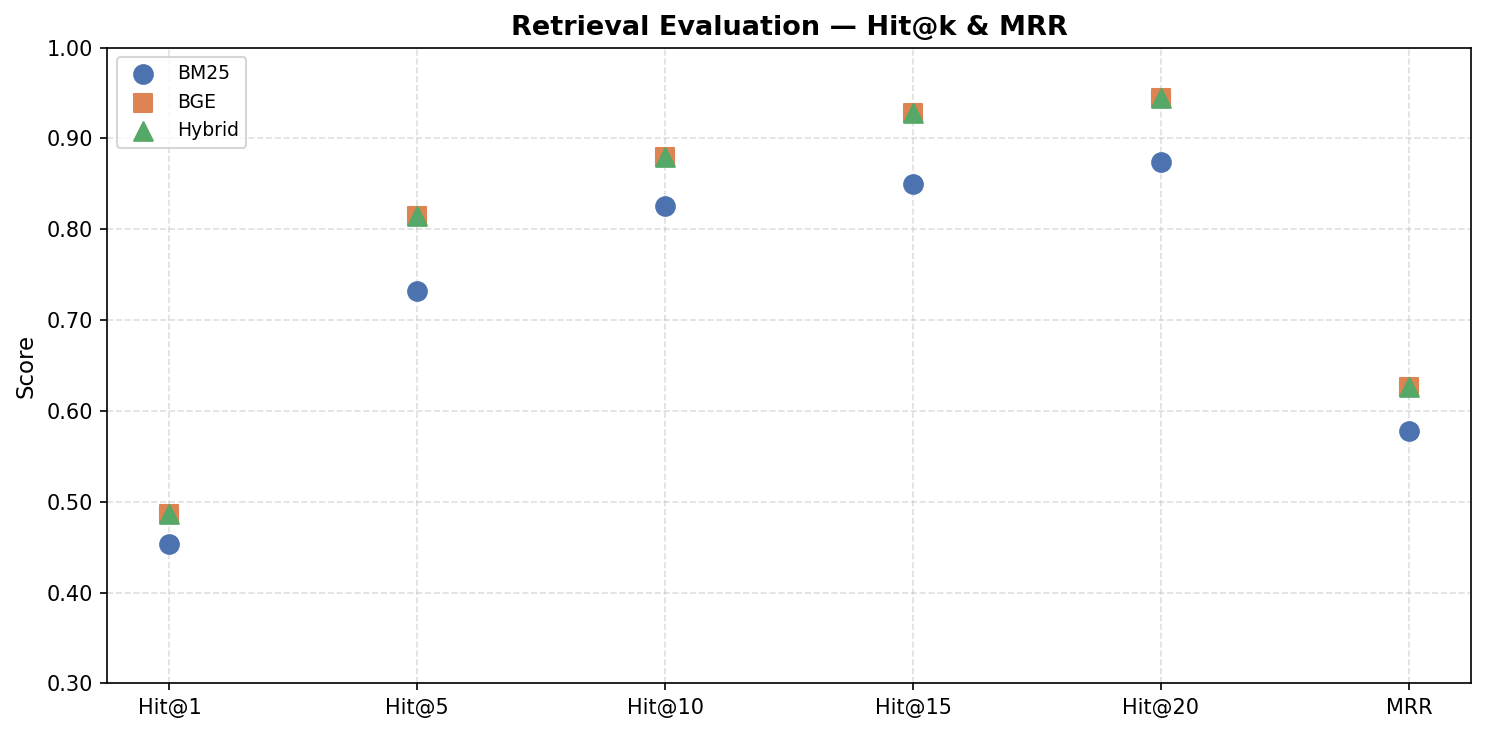
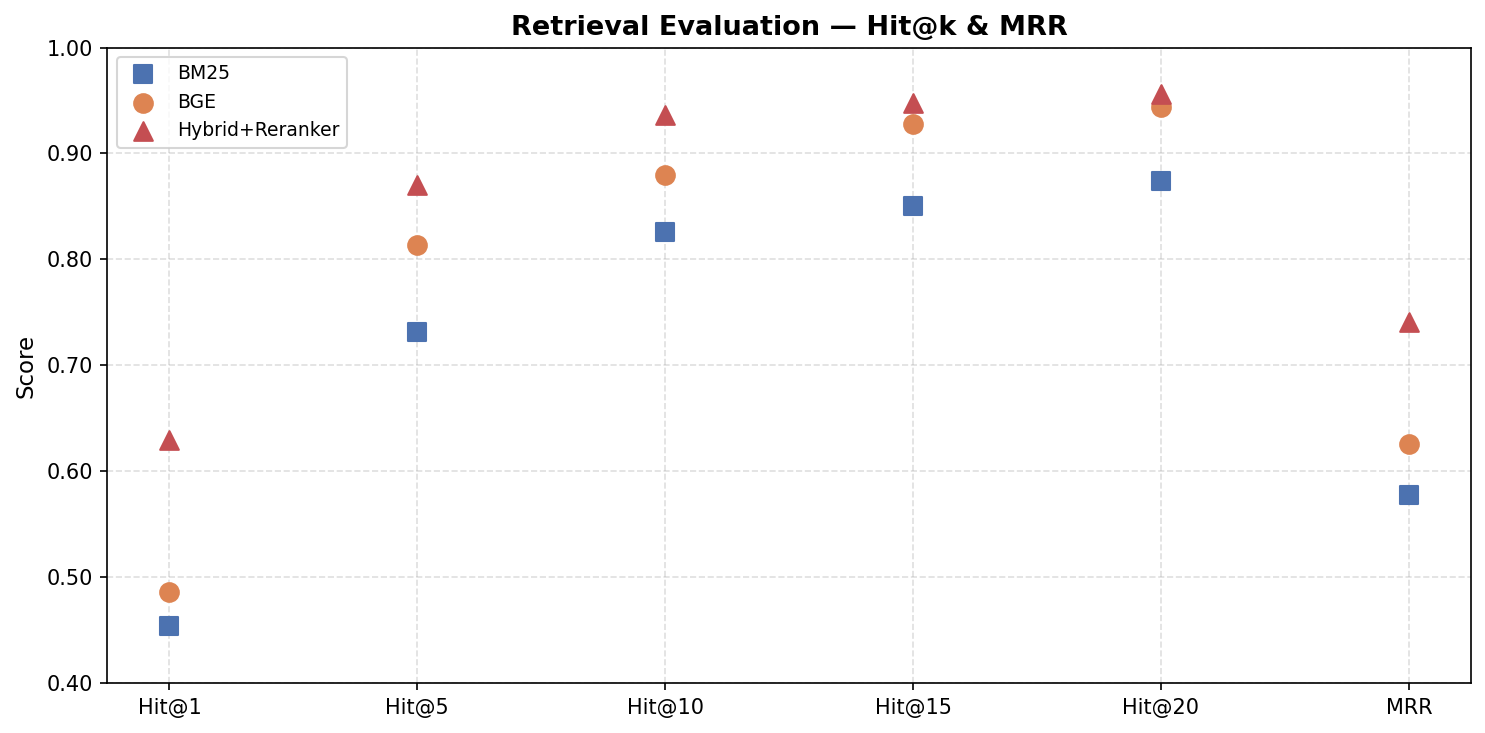
fix some bugs

diff --git a/eval/retrieval.py b/eval/retrieval.py
@@ -247,7 +247,7 @@ def main():
         print(f"DEBUG mode: using {len(samples)} positive samples")
 
     print("Loading docs from MongoDB...")
-    docs        = load_docs()
+    docs         = load_docs()
     chunk_lookup = build_chunk_lookup(docs)
     print(f"Docs loaded: {len(docs)}")
 
@@ -257,9 +257,8 @@ def main():
     hybrid   = HybridRetriever(docs)
     reranker = Reranker()
 
-    def bm25_fn(q):   return bm25.retrieve_topk(q, topk=max_k)
-    def bge_fn(q):    return bge.retrieve_topk(q, topk=max_k)
-    def hybrid_fn(q): return hybrid.retrieve(q, topk=max_k)
+    def bm25_fn(q): return bm25.retrieve_topk(q, topk=max_k)
+    def bge_fn(q):  return bge.retrieve_topk(q, topk=max_k)
     def hybrid_reranker_fn(q):
         candidates = hybrid.retrieve(q, topk=max_k)
         return reranker.rerank(q, candidates, batch_size=RERANKER_BATCH)
@@ -267,7 +266,6 @@ def main():
     retrievers = [
         ("BM25",            bm25_fn),
         ("BGE",             bge_fn),
-        ("Hybrid",          hybrid_fn),
         ("Hybrid+Reranker", hybrid_reranker_fn),
     ]
 

diff --git a/src/retriever/retrieve_hybrid.py b/src/retriever/retrieve_hybrid.py
@@ -21,6 +21,7 @@ class HybridRetriever:
         bge_results  = self.bge.retrieve_topk(query, topk)
         bm25_results = self.bm25.retrieve_topk(query, topk)
 
+        # dedup
         seen = set()
         candidates = []
         for doc in bge_results + bm25_results:

diff --git a/docs/engineering_decision_log.md b/docs/engineering_decision_log.md
@@ -174,7 +174,7 @@ Hybrid retrieval returns ~14-20 candidates including irrelevant chunks that shar
 ### Architecture
 
 ```
-~14-20 candidates from HybridRetriever
+~20 candidates from HybridRetriever
   ↓
 FlagReranker — score each (query, chunk) pair
   ↓
@@ -197,7 +197,6 @@ RRF scores are rank-derived (`1/(60+rank)`) — not interpretable as relevance t
 
 - Cross-encoder, same BAAI family as bge-m3
 - Input: `(query, passage)` pairs → single relevance score
-- Fast (~0.1-0.5s for 14 chunks), deterministic
 - `normalize=True`: maps raw scores to `[0, 1]` for interpretable thresholding
 - Score stored in `metadata["rerank_score"]` for debugging
 
@@ -305,24 +304,7 @@ Page 46 step 4 chunk (~130 chars) passes the length filter but is context-depend
  
 ### Overview
  
-Systematic comparison of all four retriever configurations on the test set to identify the best-performing pipeline before optimizing generation.
- 
----
- 
-### Architecture
- 
-```
-test.jsonl  →  {question, unique_id}
-                      ↓
-         ┌────────────┼────────────┬─────────────────┐
-         ↓            ↓            ↓                 ↓
-        BM25         BGE        Hybrid        Hybrid+Reranker
-         └────────────┴────────────┴─────────────────┘
-                      ↓
-               Hit@k + MRR
-                      ↓
-          data/eval/retrieval_results.csv
-```
+Systematic comparison of all three retriever configurations on the test set to identify the best-performing pipeline before optimizing generation.
  
 ---
  
@@ -332,7 +314,6 @@ test.jsonl  →  {question, unique_id}
 |------|-------------|
 | BM25 | Keyword-based baseline |
 | BGE | Dense + sparse RRF internally via Milvus |
-| Hybrid | BGE + BM25 union, dedup by unique_id |
 | Hybrid+Reranker | Hybrid candidates reranked by `bge-reranker-v2-m3`, treated as ranked list |
  
 ---
@@ -358,16 +339,17 @@ For `Hybrid+Reranker`: retrieve top-20 candidates → rerank → slice to k. Rer
 
 ---
 
-### Results (500 samples, DEBUG=True)
+### Results (500 samples)
 
 | Retriever | Hit@1 | Hit@5 | Hit@10 | Hit@15 | Hit@20 | MRR |
 |-----------|-------|-------|--------|--------|--------|-----|
 | BM25 | 0.454 | 0.732 | 0.826 | 0.850 | 0.874 | 0.5777 |
 | BGE | 0.486 | 0.814 | 0.880 | 0.928 | 0.944 | 0.6263 |
-| Hybrid | 0.486 | 0.814 | 0.880 | 0.928 | 0.944 | 0.6263 |
-| Hybrid+Reranker | — | — | — | — | — | — |
+| Hybrid+Reranker | 0.630 | 0.870 | 0.936 | 0.948 | 0.956 | 0.7406 |
 
-Hybrid+Reranker skipped — cross-encoder requires GPU for practical eval speed (CPU: ~hours for 500 samples × 20 pairs). To be evaluated on GPU.
+![Retrieval Results Plot](../data/eval/retrieval_results.png)
+
+Hybrid+Reranker evaluated with `RERANKER_THRESHOLD=0.0` — threshold filtering disabled to measure pure ranking quality. In inference, a calibrated threshold will be applied to drop irrelevant chunks before generation; threshold should be re-calibrated after reranker fine-tuning as score distributions will shift.
 
 ---
 
@@ -375,9 +357,9 @@ Hybrid+Reranker skipped — cross-encoder requires GPU for practical eval speed 
 
 **BGE vs BM25:** BGE improves Hit@10 by +0.054 (0.826 → 0.880) and MRR by +0.049 (0.5777 → 0.6263). Semantic retrieval meaningfully outperforms keyword matching across all k values.
 
-**Hybrid = BGE:** BM25 union added zero new chunks to the candidate pool at any k. BGE sparse covers BM25's lexical matching — union dedup removed all BM25-only results. BM25 union is redundant at the current setting.
+**Reranker significantly improves ranking quality:** Hybrid+Reranker Hit@1 jumps to 0.630 (+0.144 over Hybrid), MRR to 0.7406 (+0.114). Hit@10 reaches 0.936, Hit@20 reaches 0.956, meeting the target of 0.95+. The reranker effectively surfaces correct chunks from rank 11-20 into the top-10.
 
-**Bottleneck is ranking, not recall:** BGE Hit@20 = 0.944 means the correct chunk exists in the top-20 for ~94% of queries. The gap between Hit@10 (0.880) and Hit@20 (0.944) is +0.064 — correct chunks are present but ranked 11-20. This is a ranking problem, not a recall problem. Reranker with TOPK=20 is the most direct path to closing this gap.
+**Bottleneck shifts to fine-tuning:** With TOPK=20 and the off-the-shelf reranker, Hit@10=0.936 is the current ceiling. Fine-tuning the reranker on domain-specific data is expected to push Hit@10 to 0.95+, reducing reliance on TOPK=20.
 
 ---
 
@@ -385,6 +367,7 @@ Hybrid+Reranker skipped — cross-encoder requires GPU for practical eval speed 
 
 | Priority | Action | Reason |
 |----------|--------|--------|
-| 1 | Eval Hybrid+Reranker on GPU with TOPK=20 | Correct chunks exist at rank 11-20; reranker can surface them |
-| 2 | Analyze remaining Hit@20 miss cases | ~6% of queries still miss at k=20; identify root cause |
-| 3 | Decide on BM25 union | Currently redundant — remove or keep as safety net |
+| 1 | Generate reranker training data | Three-class labels (positive/weak positive/negative) from existing QA pairs |
+| 2 | Fine-tune reranker | Expected to push Hit@10 to 0.95+, reducing TOPK requirement from 20 to 10 |
+| 3 | Re-calibrate RERANKER_THRESHOLD | Score distributions shift after fine-tuning; threshold needs re-validation |
+| 4 | Analyze remaining Hit@20 miss cases | ~4% of queries still miss at k=20; identify root cause |
